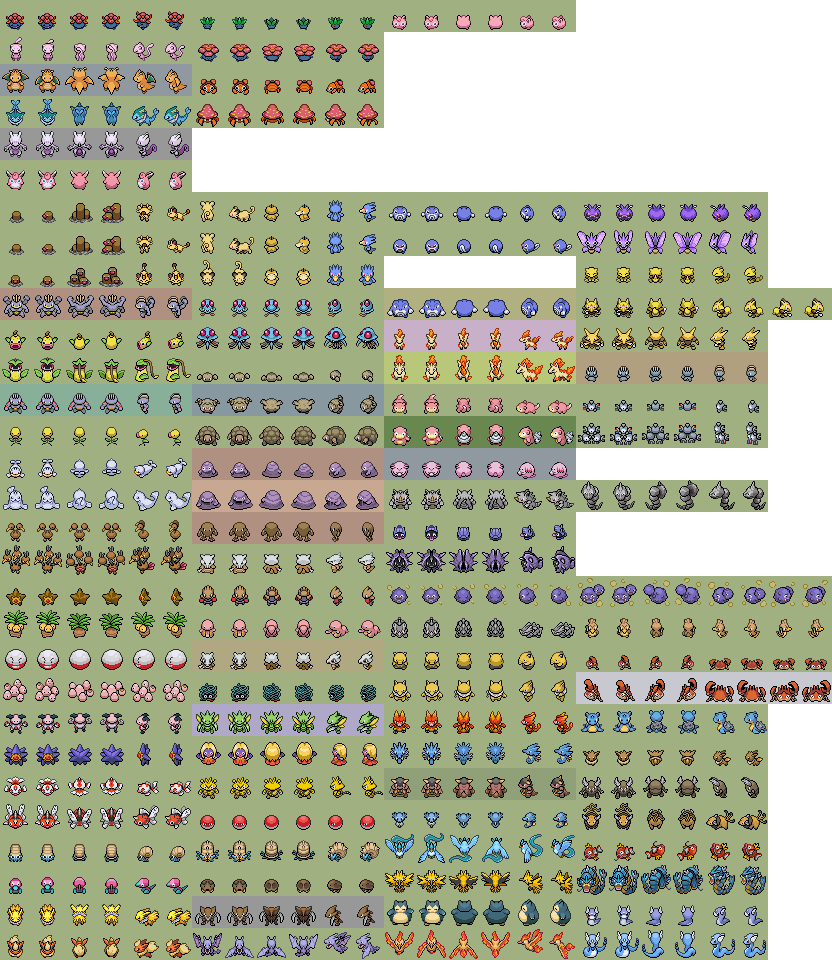
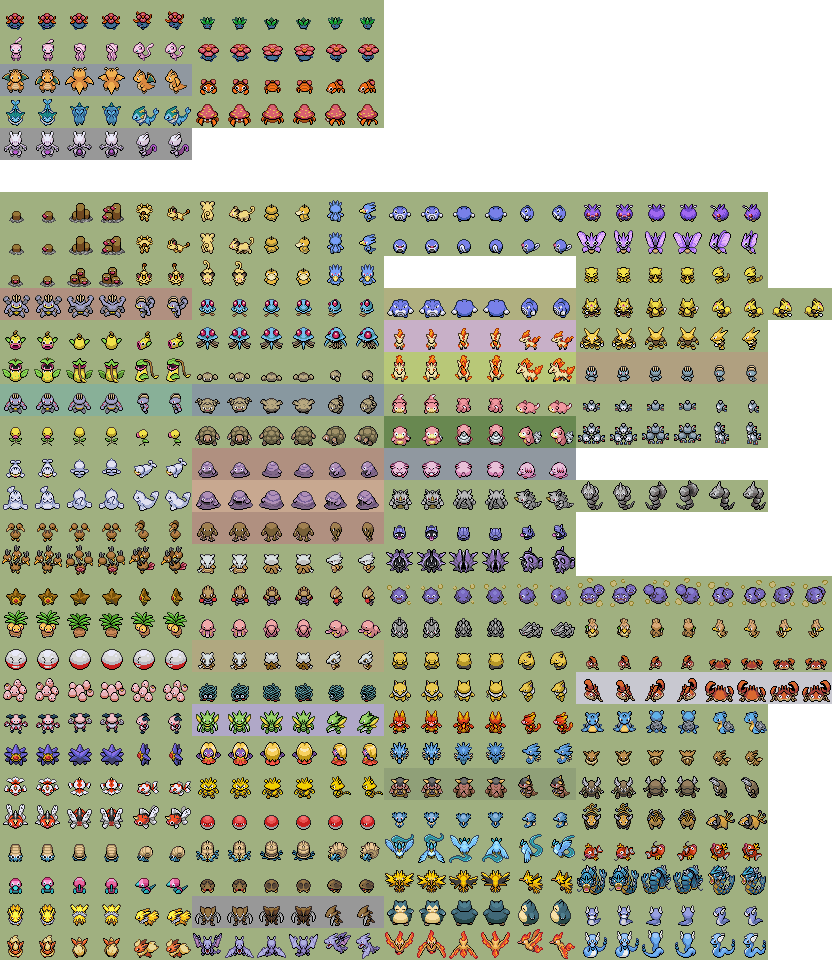
Familia de Jigglypuff

Changed region(s): [[0.0, 0.1562, 0.25, 0.2188], [0.4375, 0.0, 0.7188, 0.0312]]

diff --git a/src/util.c b/src/util.c
@@ -342,6 +342,9 @@ static const s8 sColorVariationModes[NUM_SPECIES] =
     [SPECIES_NINETALES]         = NORMAL_HUE_X2_SHINY_HUE,
     [SPECIES_VULPIX_ALOLAN]     = NORMAL_HUE_X2_SHINY_MOD,
     [SPECIES_NINETALES_ALOLAN]  = NORMAL_HUE_X2_SHINY_MOD,
+    [SPECIES_IGGLYBUFF]         = NORMAL_HUE_X2_SHINY_MOD,
+    [SPECIES_JIGGLYPUFF]        = NORMAL_HUE_X2_SHINY_MOD,
+    [SPECIES_WIGGLYTUFF]        = NORMAL_HUE_X2_SHINY_MOD,
     [SPECIES_ZUBAT]             = NORMAL_HUE_X2_SHINY_HUE,
     [SPECIES_GOLBAT]            = NORMAL_HUE_X2_SHINY_HUE,
     [SPECIES_CROBAT]            = NORMAL_HUE_X2_SHINY_HUE,
